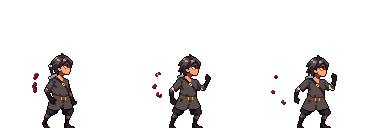
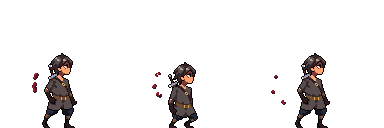
feat: add block function to block enemie attacks

Changed region(s): [[0.75, 0.4062, 0.875, 1.0], [0.4375, 0.4062, 0.5625, 1.0]]

diff --git a/models/character.class.js b/models/character.class.js
@@ -32,14 +32,24 @@ class Character extends MoveableObject {
   // Hurt animation timing (slower, non-loop)
   hurtFrameIndex = 0;
   lastHurtFrameTime = 0;
-  HURT_FRAME_DELAY = 110; // a bit faster
+  HURT_FRAME_DELAY = 90; // slightly faster per request
   // Knockback state
   knockbackActive = false;
   knockbackEndAt = 0;
   knockbackVX = 0;
   KNOCKBACK_SPEED_X = 10;
-  KNOCKBACK_SPEED_Y = 14;
+  KNOCKBACK_SPEED_Y = 14; // kept for compatibility, but not used anymore
   KNOCKBACK_DURATION = 350; // ms
+  // Jump state (separate from dodge)
+  jumpVX = 0;
+  JUMP_FORWARD_VX = 8;
+  JUMP_INIT_VY = 26; // higher than stomp bounce for small obstacles
+  // Block state
+  isBlocking = false;
+  blockFrameIndex = 0;
+  lastBlockFrameTime = 0;
+  BLOCK_FRAME_DELAY = 100;
+  _blockReady = false;
   // Sprite-sheet config for new idle
   IDLE_SHEET = {
     path: 'assets/img/2_character_man/1_idle.png',
@@ -86,6 +96,15 @@ class Character extends MoveableObject {
     rows: 1,
     count: 3,
   };
+  BLOCK_SHEET = {
+    // We'll try to load one of the expected assets for block; default to single-frame fallback
+    path: 'assets/img/2_character_man/10_block.png',
+    frameW: 128,
+    frameH: 128,
+    cols: 1,
+    rows: 1,
+    count: 1,
+  };
   // Attack hitbox config
   ATTACK_RANGE_X = 80; // reach in front of character
   ATTACK_ACTIVE_START_FRAME = 1; // only frames >= this can hit
@@ -103,6 +122,8 @@ class Character extends MoveableObject {
   lastAttackFrameTime = 0;
   ATTACK_FRAME_DELAY = 90;
   attackEndAt = 0;
+  ATTACK_COOLDOWN_MS = 500;
+  nextAttackAt = 0;
   longIdleFrameIndex = 0;
   lastLongIdleFrameTime = 0;
   LONG_IDLE_FRAME_DELAY = 200;
@@ -129,6 +150,8 @@ class Character extends MoveableObject {
     this.loadImage(this.HURT_SHEET.path);
     this.loadImage(this.ATTACK_SHEET.path);
     this.loadImage(this.DEAD_SHEET.path);
+    // Try candidates for block sheet
+    this.prepareBlockSheet();
     // Set initial sprite to first idle frame so something is visible immediately
     const idleImg = this.imageCache[this.IDLE_SHEET.path];
     if (idleImg) {
@@ -153,10 +176,13 @@ class Character extends MoveableObject {
     setInterval(() => {
       if (this.isDead()) return;
       // During knockback, ignore player input
-      if (!this.knockbackActive && !this.isDodging && !this.isAttacking) this.handleHorizontalMove();
+      if (!this.knockbackActive && !this.isDodging && !this.isAttacking && !this.isBlocking)
+        this.handleHorizontalMove();
       this.updateKnockback();
+      this.updateJump();
       this.updateDodge();
       this.updateAttack();
+      this.updateBlockState();
       this.updateCamera();
       if (!this.knockbackActive) this.handleJumpKey();
       this.markActivityOnAction();
@@ -181,17 +207,20 @@ class Character extends MoveableObject {
   }
 
   markActivityOnAction() {
-    if (this.world.keyboard.D || this.world.keyboard.A) this.lastActivityAt = Date.now();
+    if (this.world.keyboard.D || this.world.keyboard.A || this.world.keyboard.SPACE) this.lastActivityAt = Date.now();
   }
 
   // Throwing removed; D is used for dodge now
 
   handleJumpKey() {
-    // SPACE or D trigger a directional dodge while grounded
-    const canDodgeGrounded = !this.isDodging && !this.isAttacking && !this.knockbackActive && !this.isAboveGround();
-    const wantsSpaceDodge = !!this.world.keyboard.SPACE;
-    const wantsDDodge = !!this.world.keyboard.D;
-    if ((wantsSpaceDodge || wantsDDodge) && canDodgeGrounded) {
+    // Start actions only when grounded and not in conflicting states
+    const canActionGrounded =
+      !this.isDodging && !this.isAttacking && !this.knockbackActive && !this.isAboveGround() && !this.isBlocking;
+    const wantsJump = !!this.world.keyboard.SPACE;
+    const wantsDodge = !!this.world.keyboard.D;
+    if (wantsJump && canActionGrounded) {
+      this.startJump();
+    } else if (wantsDodge && canActionGrounded) {
       this.startDodge();
     }
     // 'A' triggers a standing attack on ground
@@ -200,9 +229,46 @@ class Character extends MoveableObject {
       !this.isDodging &&
       !this.isAttacking &&
       !this.knockbackActive &&
-      !this.isAboveGround()
+      !this.isAboveGround() &&
+      !this.isBlocking
     ) {
       this.startAttack();
+    }
+  }
+
+  startJump() {
+    const now = Date.now();
+    this.isJumping = true;
+    this.speedY = this.JUMP_INIT_VY;
+    const dir = this.otherDirection ? -1 : 1;
+    this.jumpVX = dir * this.JUMP_FORWARD_VX;
+    // init animation counters
+    this.jumpFrameIndex = 0;
+    this.lastJumpFrameTime = now;
+    this.animKey = 'jump';
+    const sheetImg = this.imageCache[this.JUMP_SHEET.path];
+    if (sheetImg) {
+      this.img = sheetImg;
+      this.setSheetFrame(this.JUMP_SHEET, 0);
+    }
+    this.lastActivityAt = now;
+  }
+
+  updateJump() {
+    if (!this.isJumping) return;
+    // forward drift with damping
+    if (Math.abs(this.jumpVX) > 0.1) {
+      this.x += this.jumpVX;
+      this.jumpVX *= 0.94;
+      if (this.world?.level) {
+        if (this.x < 0) this.x = 0;
+        if (this.x > this.world.level.level_end_x) this.x = this.world.level.level_end_x;
+      }
+    }
+    // end jump when landing (i.e., no longer above ground)
+    if (!this.isAboveGround()) {
+      this.isJumping = false;
+      this.jumpVX = 0;
     }
   }
 
@@ -258,7 +324,8 @@ class Character extends MoveableObject {
       if (this.isDodging) return this.setDodgeFrame(now);
       if (this.isHurt()) return this.setHurtFrame();
       if (this.isAttacking) return this.setAttackFrame(now);
-      if (this.isAboveGround()) return this.setJumpFrame(now);
+      if (this.isAboveGround() || this.isJumping) return this.setJumpFrame(now);
+      if (this.isBlocking) return this.setBlockFrame(now);
       this.setGroundedFrame(now);
     }, 50);
   }
@@ -373,6 +440,7 @@ class Character extends MoveableObject {
   // Attack logic
   startAttack() {
     const now = Date.now();
+    if (now < (this.nextAttackAt || 0)) return; // cooldown gate
     this.isAttacking = true;
     this.attackFrameIndex = 0;
     this.lastAttackFrameTime = now;
@@ -395,6 +463,7 @@ class Character extends MoveableObject {
     if (now >= this.attackEndAt) {
       this.isAttacking = false;
       this.attackFrameIndex = 0;
+      this.nextAttackAt = now + this.ATTACK_COOLDOWN_MS;
     }
   }
 
@@ -433,7 +502,7 @@ class Character extends MoveableObject {
     this.resetJumpStateIfNeeded();
     const moving = this.world.keyboard.RIGHT || this.world.keyboard.LEFT;
     const inactiveMs = now - this.lastActivityAt;
-    if (moving) return this.setWalkFrame();
+    if (moving && !this.isBlocking) return this.setWalkFrame();
     if (inactiveMs >= this.LONG_IDLE_AFTER_MS) return this.setLongIdleFrame(now);
     if (inactiveMs >= this.IDLE_AFTER_MS) return this.setIdleFrame(now);
     this.setDefaultStandFrame();
@@ -454,7 +523,8 @@ class Character extends MoveableObject {
     this.knockbackActive = true;
     this.knockbackEndAt = now + this.KNOCKBACK_DURATION;
     this.knockbackVX = dir * this.KNOCKBACK_SPEED_X;
-    this.speedY = this.KNOCKBACK_SPEED_Y; // small hop
+    // Only horizontal push; no vertical hop
+    this.speedY = 0;
   }
 
   // While dodging, ignore damage
@@ -625,5 +695,70 @@ class Character extends MoveableObject {
     this.jumpFrameIndex = 0;
     this.currentImage = 0;
     this.lastJumpFrameTime = Date.now();
+  }
+
+  // Block helpers
+  updateBlockState() {
+    const wantsBlock = !!this.world?.keyboard?.S;
+    this.isBlocking = wantsBlock && !this.isDodging && !this.isAttacking && !this.isHurt();
+    if (!this.isBlocking) {
+      this.blockFrameIndex = 0; // reset when released
+    }
+  }
+
+  setBlockFrame(now) {
+    // if we have a multi-frame sheet, animate slowly; otherwise hold first frame
+    const sheetImg = this.imageCache[this.BLOCK_SHEET.path];
+    const cnt = this.getSheetCount(this.BLOCK_SHEET, sheetImg) || 1;
+    // Target frame to hold while blocking: third frame (index 2), but never exceed available frames
+    const holdIdx = Math.min(2, Math.max(0, cnt - 1));
+    if (cnt > 1) {
+      if (now - this.lastBlockFrameTime >= this.BLOCK_FRAME_DELAY && this.blockFrameIndex < holdIdx) {
+        this.blockFrameIndex = Math.min(this.blockFrameIndex + 1, holdIdx);
+        this.lastBlockFrameTime = now;
+      }
+    } else {
+      this.blockFrameIndex = 0;
+    }
+    // Always clamp to safe range to avoid invisible sprite due to OOB frame
+    const idx = Math.min(Math.max(0, this.blockFrameIndex), holdIdx);
+    if (sheetImg) {
+      this.img = sheetImg;
+      this.setSheetFrame(this.BLOCK_SHEET, idx);
+      this.animKey = 'block';
+    }
+  }
+
+  triggerBlock() {
+    // Called when an attack is successfully blocked; can be used to reset animation or play SFX
+    this.blockFrameIndex = 0;
+    this.lastBlockFrameTime = Date.now();
+  }
+
+  prepareBlockSheet() {
+    // Try a few candidate paths to be resilient to asset layout
+    const candidates = [
+      { path: 'assets/img/2_character_man/10_block.png', count: 4 },
+      { path: 'assets/img/2_character_man/10_block/1_block_6_sprites.png', count: 6 },
+      { path: 'assets/img/2_character_man/10_block/1_block_5_sprites.png', count: 5 },
+      { path: 'assets/img/2_character_man/10_block/1_block_4_sprites.png', count: 4 },
+      { path: 'assets/img/2_character_man/10_block/1_block_3_sprites.png', count: 3 },
+    ];
+    for (const c of candidates) {
+      try {
+        const img = new Image();
+        img.onload = () => {
+          if (!this._blockReady) {
+            this._blockReady = true;
+            this.BLOCK_SHEET.path = c.path;
+            this.BLOCK_SHEET.cols = c.count;
+            this.BLOCK_SHEET.rows = 1;
+            this.BLOCK_SHEET.count = c.count;
+            this.imageCache[c.path] = img;
+          }
+        };
+        img.src = c.path;
+      } catch (_) {}
+    }
   }
 }

diff --git a/models/goblin.class.js b/models/goblin.class.js
@@ -522,6 +522,23 @@ class Goblin extends MoveableObject {
     const b = ch.getBoundsWithOffset?.(ch) || { top: ch.y, bottom: ch.y + ch.height };
     const vOverlap = a.bottom > b.top && a.top < b.bottom;
     if (!vOverlap) return;
+    // Block check: if character is blocking and facing toward the goblin, negate damage
+    if (ch.isBlocking) {
+      const goblinOnRight = this.x > ch.x;
+      const facingRight = !ch.otherDirection;
+      const blockCovers = (goblinOnRight && facingRight) || (!goblinOnRight && ch.otherDirection);
+      if (blockCovers) {
+        ch.triggerBlock?.();
+        // small penalty cooldown so goblin doesn't immediately re-hit
+        const now = Date.now();
+        this.attackCooldownEndAt = now + 350;
+        // apply a horizontal knockback to attacker away from the character
+        const dir = goblinOnRight ? 1 : -1; // push further away from the character
+        this.knockbackVX = dir * (this.KNOCKBACK_SPEED_X || 10);
+        this.knockbackEndAt = now + (this.KNOCKBACK_DURATION || 300);
+        return;
+      }
+    }
     // apply damage via world helper (respects isHurt timing)
     world.damageCharacterIfNeeded();
     // knockback the character from goblin

diff --git a/scripts/game.js b/scripts/game.js
@@ -178,6 +178,7 @@ const KEY_MAP = {
   32: 'SPACE',
   68: 'D',
   65: 'A',
+  83: 'S',
 };
 
 window.addEventListener('keydown', (e) => {

diff --git a/models/keyboard.class.js b/models/keyboard.class.js
@@ -6,4 +6,5 @@ class Keyboard {
   SPACE = false;
   D = false;
   A = false;
+  S = false;
 }
